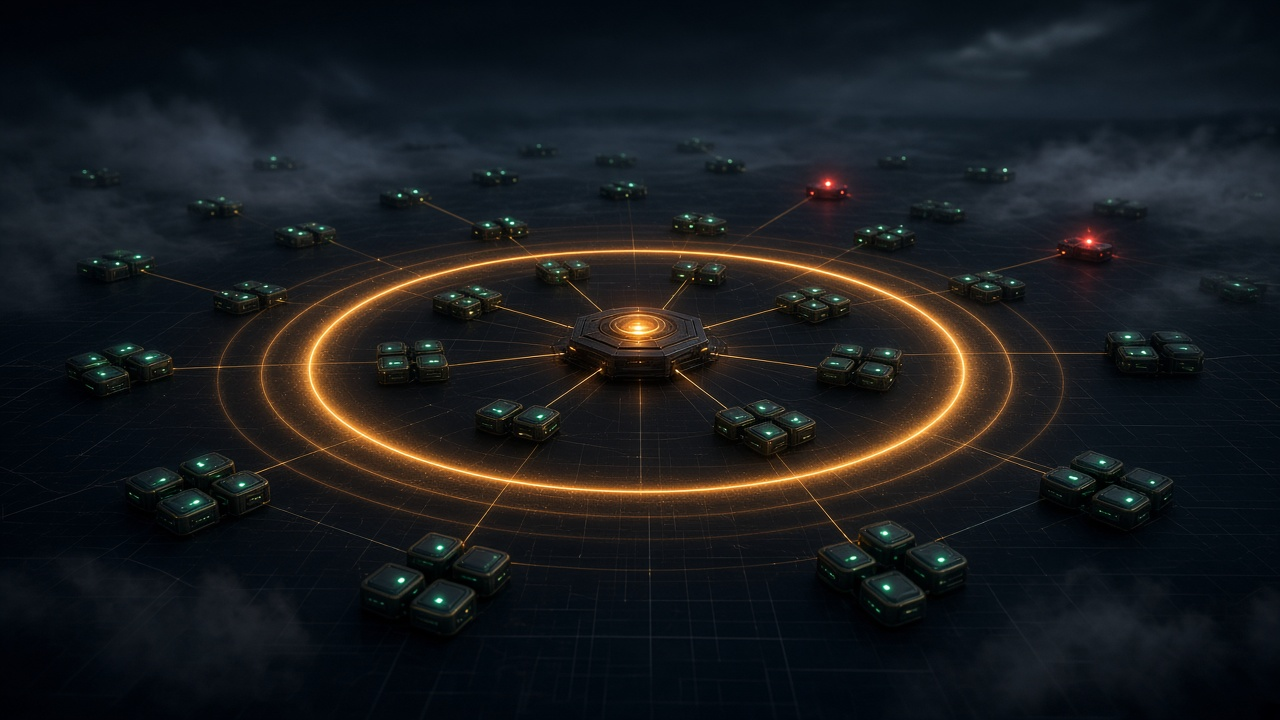
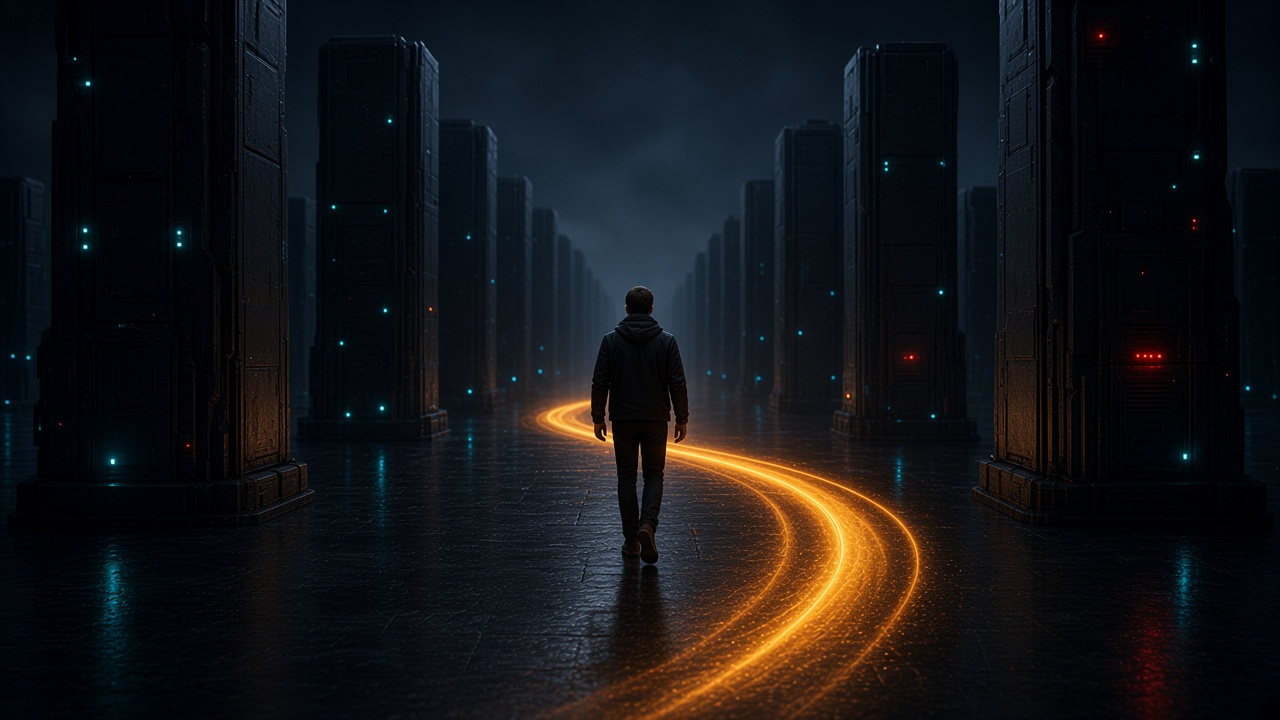
docs: walk the hero between node towers

diff --git a/README.md b/README.md
@@ -1,6 +1,6 @@
 # Pulseblade
 
-![Pulseblade — an amber pulse sweeping out from a central hub across a fleet of infrastructure nodes, revealing healthy and degraded hosts](docs/assets/pulseblade-hero.jpg)
+![Pulseblade — a person walking a lane of infrastructure nodes as an amber pulse sweeps ahead, revealing healthy and degraded hosts](docs/assets/pulseblade-hero.jpg)
 
 **Pulseblade** — a pulse that reveals what is moving across your infrastructure.
 
